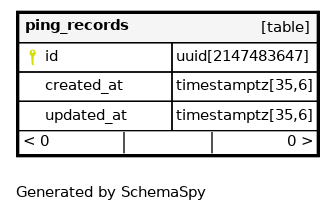
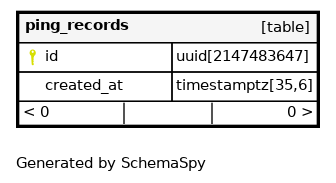
Deploying to gh-pages from @ yasuflatland-lf/flamingo-armond@c5dfb364c131cf67bbd6b2568e056aece7344382 🚀

Changed region(s): [[0.0298, 0.0273, 0.9524, 0.765], [0.0298, 0.847, 0.625, 0.9563]]

diff --git a/er-chart/relationships.html b/er-chart/relationships.html
@@ -111,17 +111,17 @@
                                     <div class="chart tab-pane " id="largeDegreeImg-chart" style="position: relative; overflow-x:auto;">
                                         <map id="largeRelationshipsDiagram" name="largeRelationshipsDiagram">
 <area shape="rect" id="node1" href="tables/master_cardgroups.html" target="_top" title="master_cardgroups" alt="" coords="5,35,277,363">
-<area shape="rect" id="node2" href="tables/cardgroups.html" target="_top" title="cardgroups" alt="" coords="463,831,657,1041">
-<area shape="rect" id="node8" href="tables/users.html" target="_top" title="users" alt="" coords="237,860,419,1129">
-<area shape="rect" id="node3" href="tables/roles.html" target="_top" title="roles" alt="" coords="262,1153,394,1276">
-<area shape="rect" id="node4" href="tables/swipe_records.html" target="_top" title="swipe_records" alt="" coords="1044,901,1267,1464">
-<area shape="rect" id="node9" href="tables/cards.html" target="_top" title="cards" alt="" coords="763,801,939,1071">
-<area shape="rect" id="node5" href="tables/user_card_fsrs.html" target="_top" title="user_card_fsrs" alt="" coords="1044,468,1267,884">
-<area shape="rect" id="node6" href="tables/user_preferences.html" target="_top" title="user_preferences" alt="" coords="701,544,1000,784">
+<area shape="rect" id="node2" href="tables/cardgroups.html" target="_top" title="cardgroups" alt="" coords="463,889,657,1100">
+<area shape="rect" id="node8" href="tables/users.html" target="_top" title="users" alt="" coords="237,919,419,1188">
+<area shape="rect" id="node3" href="tables/roles.html" target="_top" title="roles" alt="" coords="262,1212,394,1335">
+<area shape="rect" id="node4" href="tables/swipe_records.html" target="_top" title="swipe_records" alt="" coords="1044,960,1267,1523">
+<area shape="rect" id="node9" href="tables/cards.html" target="_top" title="cards" alt="" coords="763,860,939,1129">
+<area shape="rect" id="node5" href="tables/user_card_fsrs.html" target="_top" title="user_card_fsrs" alt="" coords="1044,527,1267,943">
+<area shape="rect" id="node6" href="tables/user_preferences.html" target="_top" title="user_preferences" alt="" coords="701,603,1000,843">
 <area shape="rect" id="node7" href="tables/master_cards.html" target="_top" title="master_cards" alt="" coords="321,5,575,275">
-<area shape="rect" id="node12" title="auth.users" alt="" coords="5,860,193,983">
-<area shape="rect" id="node10" href="tables/ping_records.html" target="_top" title="ping_records" alt="" coords="713,211,923,363">
-<area shape="rect" id="node11" href="tables/user_roles.html" target="_top" title="user_roles" alt="" coords="468,1124,652,1247">
+<area shape="rect" id="node12" title="auth.users" alt="" coords="5,919,193,1041">
+<area shape="rect" id="node10" href="tables/ping_records.html" target="_top" title="ping_records" alt="" coords="701,240,911,363">
+<area shape="rect" id="node11" href="tables/user_roles.html" target="_top" title="user_roles" alt="" coords="468,1183,652,1305">
 </map>
                                         <a name='diagram'><img id="largeDegreeImg" src="diagrams/summary/relationships.real.large.png" usemap="#largeRelationshipsDiagram" class="diagram" border="0" align="left"></a>
                                     </div>

diff --git a/er-chart/tables/ping_records.html b/er-chart/tables/ping_records.html
@@ -142,23 +142,6 @@
                                     </td>
                                     <td></td>
                                 </tr>
-                                <tr>
-                                    <td><span id="updated_at">updated_at</span></td>
-                                    <td>timestamptz</td>
-                                    <td>35,6</td>
-                                    <td title=''></td>
-                                    <td title=''></td>
-                                    <td>now()</td>
-                                    <td>
-                                        <table border='0' cellspacing='0' cellpadding='0'>
-                                        </table>
-                                    </td>
-                                    <td>
-                                        <table border='0' cellspacing='0' cellpadding='0'>
-                                        </table>
-                                    </td>
-                                    <td></td>
-                                </tr>
                                 </tbody>
                             </table>
                         </div>
@@ -217,7 +200,7 @@
                                 <div class="tab-content no-padding">
                                     <div class="chart tab-pane active" id="oneDegreeImg-chart" style="position: relative; overflow-x:auto;">
                                         <map id="oneDegreeRelationshipsDiagram" name="oneDegreeRelationshipsDiagram">
-<area shape="rect" id="node1" href="ping_records.html" target="_top" title="ping_records" alt="" coords="5,5,331,163">
+<area shape="rect" id="node1" href="ping_records.html" target="_top" title="ping_records" alt="" coords="5,5,331,133">
 </map>
                                         <a name='diagram'><img id="oneDegreeImg" src="../diagrams/tables/ping_records.1degree.png" usemap="#oneDegreeRelationshipsDiagram" class="diagram" border="0" align="left"></a>
                                     </div>

diff --git a/er-chart/index.html b/er-chart/index.html
@@ -78,7 +78,7 @@
                         <div class="col-md-12">
                             <div class="callout callout-info">
                                 <h4>SchemaSpy Analysis of armond.public</h4>
-                                <p>Generated on Sun Oct 04 13:24 UTC 2026</p>
+                                <p>Generated on Sun Oct 04 13:28 UTC 2026</p>
                             </div>
                         </div>
                     </div>
@@ -118,7 +118,7 @@
                                 <span class="info-box-icon bg-green"><span class="glyphicon glyphicon-list-alt" aria-hidden="true"></span></span>
                                 <div class="info-box-content">
                                     <span class="info-box-text">COLUMNS</span>
-                                    <span class="info-box-number">77</span>
+                                    <span class="info-box-number">76</span>
                                 </div>
                                 <!-- /.info-box-content -->
                             </div>
@@ -290,7 +290,7 @@
                                         <td class="detail"><a href="tables/ping_records.html">ping_records</a></td>
                                         <td class="detail" align="right">0</td>
                                         <td class="detail" align="right">0</td>
-                                        <td class="detail" align="right">3</td>
+                                        <td class="detail" align="right">2</td>
                                         <td class="detail" align="right">-1</td>
                                         <td class="detail" align="right">Table</td>
                                         <td class="comment detail" style="display: table-cell;"></td>

diff --git a/er-chart/tables/user_preferences.html b/er-chart/tables/user_preferences.html
@@ -291,12 +291,12 @@
                                 </thead>
                                 <tbody>
                                 <tr>
-                                    <td>user_preferences_learn_display_mode_check</td>
-                                    <td>(learn_display_mode &#61; ANY (ARRAY[&#39;flip_to_reveal&#39;::text, &#39;always_visible&#39;::text]))</td>
-                                </tr>
-                                <tr>
                                     <td>user_preferences_new_card_ratio_check</td>
                                     <td>((new_card_ratio_num &gt;&#61; 1) AND (new_card_ratio_num &lt; new_card_ratio_den) AND (new_card_ratio_den &lt;&#61; 20) AND ((20 % new_card_ratio_den) &#61; 0) AND ((new_card_ratio_num * 5) &lt;&#61; (new_card_ratio_den * 4)))</td>
+                                </tr>
+                                <tr>
+                                    <td>user_preferences_learn_display_mode_check</td>
+                                    <td>(learn_display_mode &#61; ANY (ARRAY[&#39;flip_to_reveal&#39;::text, &#39;always_visible&#39;::text]))</td>
                                 </tr>
                                 </tbody>
                             </table>

diff --git a/er-chart/orphans.html b/er-chart/orphans.html
@@ -85,7 +85,7 @@
                         <div class="box-body">
 <img id="orphans" src="diagrams/orphans/orphans.png" usemap="#orphans" style="max-width:100%;" border="0" align="top">
 <map id="orphans" name="orphans">
-<area shape="rect" id="node1" href="tables/ping_records.html" target="_top" title="ping_records" alt="" coords="5,5,331,163">
+<area shape="rect" id="node1" href="tables/ping_records.html" target="_top" title="ping_records" alt="" coords="5,5,331,133">
 </map>
                         </div>
                     </div>

diff --git a/er-chart/columns.html b/er-chart/columns.html
@@ -531,20 +531,6 @@
         "comments": ""
     },
     {
-        "tableName": "ping_records",
-        "tableFileName": "ping_records",
-        "tableType": "Table",
-        "keyClass": "",
-        "keyTitle": "",
-        "name": "updated_at",
-        "type": "timestamptz",
-        "length": 35,
-        "nullable": "",
-        "autoUpdated": "",
-        "defaultValue": "now()",
-        "comments": ""
-    },
-    {
         "tableName": "roles",
         "tableFileName": "roles",
         "tableType": "Table",
